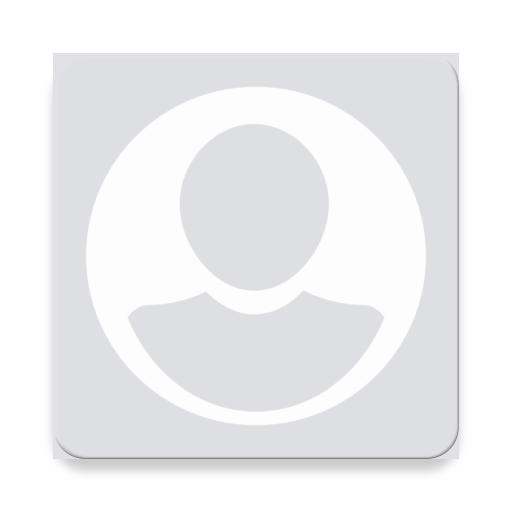
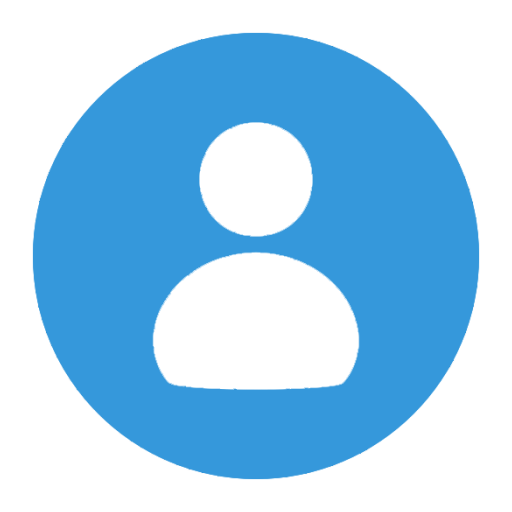
Minor edits...

diff --git a/app/src/main/java/ph/edu/up/mp/reperuga/myjournal/MainActivity.java b/app/src/main/java/ph/edu/up/mp/reperuga/myjournal/MainActivity.java
@@ -31,8 +31,6 @@ public class MainActivity extends AppCompatActivity {
 
     private RecyclerView mJournalList;
 
-    //static boolean calledAlready = false;
-
     private DatabaseReference mDatabase;
 
     private DatabaseReference mDatabaseLike;
@@ -53,15 +51,6 @@ public class MainActivity extends AppCompatActivity {
         super.onCreate(savedInstanceState);
         setContentView(R.layout.activity_main);
 
-        /*
-        if (!calledAlready)
-        {
-            FirebaseDatabase.getInstance().setPersistenceEnabled(true);
-            calledAlready = true;
-        }
-
-        FirebaseDatabase database = FirebaseDatabase.getInstance();
-        */
 
         fab = (FloatingActionButton) findViewById(R.id.fab);
         fab.setOnClickListener(new View.OnClickListener() {
@@ -96,11 +85,11 @@ public class MainActivity extends AppCompatActivity {
         mDatabaseUsers = FirebaseDatabase.getInstance().getReference().child("Users");
         mDatabaseLike = FirebaseDatabase.getInstance().getReference().child("Likes");
 
-        String currentUserId = mAuth.getCurrentUser().getUid();
+        String currentUserId = mAuth.getCurrentUser().getUid(); //
 
         mDatabaseCurrentUser = FirebaseDatabase.getInstance().getReference().child("Journal");
 
-        mQueryCurrentUser = mDatabaseCurrentUser.orderByChild("uid").equalTo(currentUserId);
+        mQueryCurrentUser = mDatabaseCurrentUser.orderByChild("uid").equalTo(currentUserId); //
 
         mDatabaseUsers.keepSynced(true);
         mDatabaseLike.keepSynced(true);
@@ -131,7 +120,7 @@ public class MainActivity extends AppCompatActivity {
                 R.layout.journal_row,
                 JournalViewHolder.class,
                 mQueryCurrentUser
-
+                //mDatabase
         ) {
             @Override
             protected void populateViewHolder(JournalViewHolder viewHolder, Journal model, int position) {

diff --git a/app/src/main/java/ph/edu/up/mp/reperuga/myjournal/PostActivity.java b/app/src/main/java/ph/edu/up/mp/reperuga/myjournal/PostActivity.java
@@ -5,12 +5,12 @@ import android.content.Intent;
 import android.net.Uri;
 import android.os.Bundle;
 import android.support.annotation.NonNull;
+import android.support.design.widget.FloatingActionButton;
 import android.support.v7.app.AppCompatActivity;
 import android.text.TextUtils;
 import android.view.Menu;
 import android.view.MenuItem;
 import android.view.View;
-import android.widget.Button;
 import android.widget.EditText;
 import android.widget.ImageButton;
 
@@ -30,11 +30,12 @@ import com.google.firebase.storage.UploadTask;
 
 public class PostActivity extends AppCompatActivity {
 
+
     private ImageButton mSelectImage;
     private EditText mPostTitle;
     private EditText mPostDesc;
 
-    private Button mSubmitBtn;
+    private FloatingActionButton mSubmitBtn;
 
     private Uri mImageUri = null;
 
@@ -62,7 +63,10 @@ public class PostActivity extends AppCompatActivity {
 
 
         mStorage = FirebaseStorage.getInstance().getReference();
+
+        // [START initialize_database_ref]
         mDatabase = FirebaseDatabase.getInstance().getReference().child("Journal");
+        // [END initialize_database_ref]
 
         mDatabaseUser = FirebaseDatabase.getInstance().getReference().child("Users").child(mCurrentUser.getUid());
 
@@ -72,7 +76,7 @@ public class PostActivity extends AppCompatActivity {
         mPostTitle = (EditText) findViewById(R.id.titleField);
         mPostDesc = (EditText) findViewById(R.id.descField);
 
-        mSubmitBtn = (Button) findViewById(R.id.submitBtn);
+        mSubmitBtn = (FloatingActionButton) findViewById(R.id.submitBtn);
 
         mProgress = new ProgressDialog(this);
 
@@ -92,10 +96,13 @@ public class PostActivity extends AppCompatActivity {
             public void onClick(View view) {
 
                 startPosting();
+                //submitPost();
 
             }
         });
     }
+
+
 
     private void startPosting() {
 

diff --git a/app/src/main/java/ph/edu/up/mp/reperuga/myjournal/SetupActivity.java b/app/src/main/java/ph/edu/up/mp/reperuga/myjournal/SetupActivity.java
@@ -3,8 +3,8 @@ package ph.edu.up.mp.reperuga.myjournal;
 import android.app.ProgressDialog;
 import android.content.Intent;
 import android.net.Uri;
-import android.support.v7.app.AppCompatActivity;
 import android.os.Bundle;
+import android.support.v7.app.AppCompatActivity;
 import android.text.TextUtils;
 import android.view.View;
 import android.widget.Button;
@@ -125,6 +125,8 @@ public class SetupActivity extends AppCompatActivity {
 
             CropImage.activity(mImageUri)
                     .setGuidelines(CropImageView.Guidelines.ON)
+                    .setCropShape(CropImageView.CropShape.OVAL) //
+                    .setFixAspectRatio(true) //
                     .setAspectRatio(1, 1)
                     .start(this);
 

diff --git a/app/src/main/java/ph/edu/up/mp/reperuga/myjournal/JournalSingleActivity.java b/app/src/main/java/ph/edu/up/mp/reperuga/myjournal/JournalSingleActivity.java
@@ -49,8 +49,9 @@ public class JournalSingleActivity extends AppCompatActivity {
         mEditBtn.setOnClickListener(new View.OnClickListener() {
             @Override
             public void onClick(View view) {
-                Intent intent = new Intent(JournalSingleActivity.this, EditJournalActivity.class);
-                startActivity(intent);
+
+                //Intent intent = new Intent(JournalSingleActivity.this, EditJournalActivity.class);
+                //startActivity(intent);
 
 
             }
